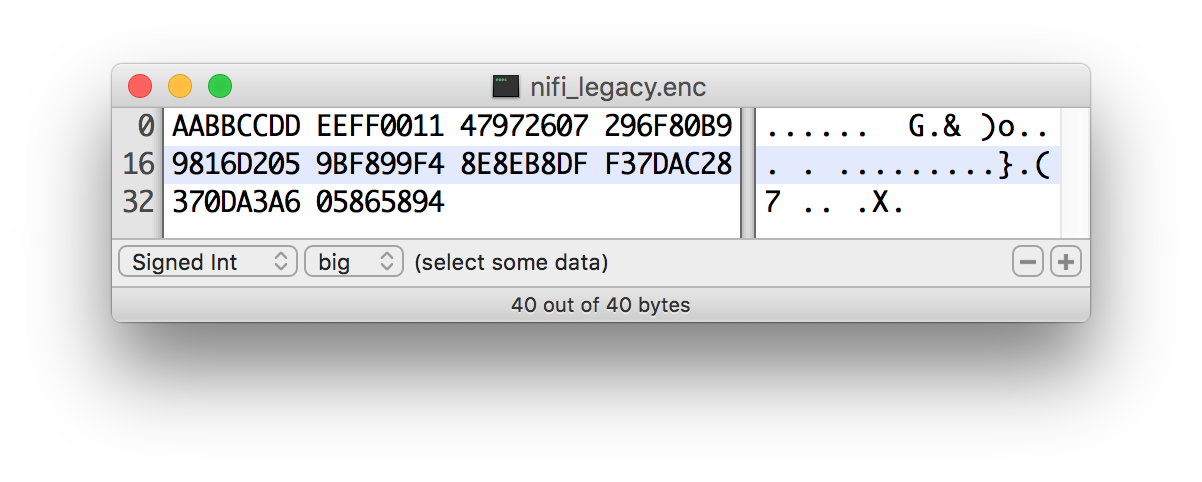
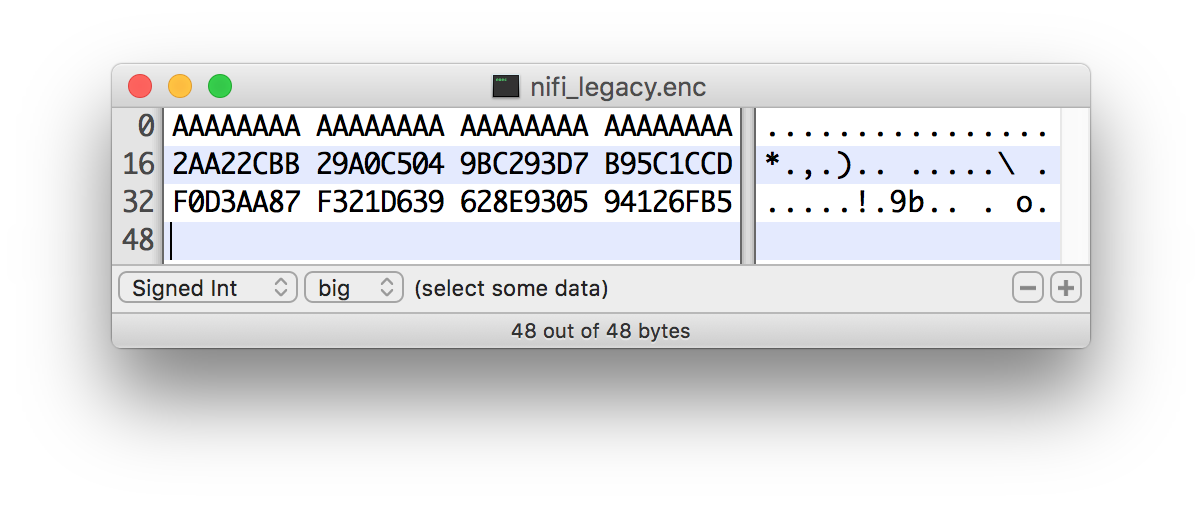
NIFI-1257 Resolved legacy compatibility issue with NiFi legacy KDF salt length dependent on cipher block size.
Replaced screenshot for NiFiLegacy salt encoding.
Added description of legacy salt length determination in admin guide.
Added logic for NiFiLegacyCipherProvider to generate and validate salts of the length determined by the cipher block size.
Changed EncryptContent to default to Bcrypt KDF.

Changed region(s): [[0.0923, 0.1245, 0.9235, 0.6846]]

diff --git a/nifi-nar-bundles/nifi-standard-bundle/nifi-standard-processors/src/main/java/org/apache/nifi/processors/standard/util/crypto/NiFiLegacyCipherProvider.java b/nifi-nar-bundles/nifi-standard-bundle/nifi-standard-processors/src/main/java/org/apache/nifi/processors/standard/util/crypto/NiFiLegacyCipherProvider.java
@@ -26,6 +26,7 @@ import javax.crypto.Cipher;
 import java.io.IOException;
 import java.io.InputStream;
 import java.io.OutputStream;
+import java.security.SecureRandom;
 
 /**
  * Provides a cipher initialized with the original NiFi key derivation process for password-based encryption (MD5 @ 1000 iterations). This is not a secure
@@ -83,17 +84,55 @@ public class NiFiLegacyCipherProvider extends OpenSSLPKCS5CipherProvider impleme
         }
     }
 
+    public byte[] generateSalt(EncryptionMethod encryptionMethod) {
+        byte[] salt = new byte[calculateSaltLength(encryptionMethod)];
+        new SecureRandom().nextBytes(salt);
+        return salt;
+    }
+
+    protected void validateSalt(EncryptionMethod encryptionMethod, byte[] salt) {
+        final int saltLength = calculateSaltLength(encryptionMethod);
+        if (salt.length != saltLength && salt.length != 0) {
+            throw new IllegalArgumentException("Salt must be " + saltLength + " bytes or empty");
+        }
+    }
+
+    private int calculateSaltLength(EncryptionMethod encryptionMethod) {
+        try {
+            Cipher cipher = Cipher.getInstance(encryptionMethod.getAlgorithm(), encryptionMethod.getProvider());
+            return cipher.getBlockSize() > 0 ? cipher.getBlockSize() : getDefaultSaltLength();
+        } catch (Exception e) {
+            logger.warn("Encountered exception determining salt length from encryption method {}", encryptionMethod.getAlgorithm(), e);
+            final int defaultSaltLength = getDefaultSaltLength();
+            logger.warn("Returning default length: {} bytes", defaultSaltLength);
+            return defaultSaltLength;
+        }
+    }
+
     @Override
     public byte[] readSalt(InputStream in) throws IOException, ProcessException {
+        return readSalt(EncryptionMethod.AES_CBC, in);
+    }
+
+    /**
+     * Returns the salt provided as part of the cipher stream, or throws an exception if one cannot be detected.
+     * This method is only implemented by {@link NiFiLegacyCipherProvider} because the legacy salt generation was dependent on the cipher block size.
+     *
+     * @param encryptionMethod the encryption method
+     * @param in the cipher InputStream
+     * @return the salt
+     */
+    public byte[] readSalt(EncryptionMethod encryptionMethod, InputStream in) throws IOException {
         if (in == null) {
             throw new IllegalArgumentException("Cannot read salt from null InputStream");
         }
 
-        // The first 16 bytes of the input stream are the salt
-        if (in.available() < getDefaultSaltLength()) {
+        // The first 8-16 bytes (depending on the cipher blocksize) of the input stream are the salt
+        final int saltLength = calculateSaltLength(encryptionMethod);
+        if (in.available() < saltLength) {
             throw new ProcessException("The cipher stream is too small to contain the salt");
         }
-        byte[] salt = new byte[getDefaultSaltLength()];
+        byte[] salt = new byte[saltLength];
         StreamUtils.fillBuffer(in, salt);
         return salt;
     }

diff --git a/nifi-nar-bundles/nifi-standard-bundle/nifi-standard-processors/src/test/java/org/apache/nifi/processors/standard/TestEncryptContent.java b/nifi-nar-bundles/nifi-standard-bundle/nifi-standard-processors/src/test/java/org/apache/nifi/processors/standard/TestEncryptContent.java
@@ -180,13 +180,13 @@ public class TestEncryptContent {
     }
 
     @Test
-    public void testDecryptShouldDefaultToLegacyKDF() throws IOException {
+    public void testDecryptShouldDefaultToBcrypt() throws IOException {
         // Arrange
         final TestRunner testRunner = TestRunners.newTestRunner(new EncryptContent());
 
         // Assert
         Assert.assertEquals("Decrypt should default to Legacy KDF", testRunner.getProcessor().getPropertyDescriptor(EncryptContent.KEY_DERIVATION_FUNCTION
-                .getName()).getDefaultValue(), KeyDerivationFunction.NIFI_LEGACY.name());
+                .getName()).getDefaultValue(), KeyDerivationFunction.BCRYPT.name());
     }
 
     @Test
@@ -194,6 +194,7 @@ public class TestEncryptContent {
         final TestRunner runner = TestRunners.newTestRunner(EncryptContent.class);
         runner.setProperty(EncryptContent.PASSWORD, "Hello, World!");
         runner.setProperty(EncryptContent.MODE, EncryptContent.DECRYPT_MODE);
+        runner.setProperty(EncryptContent.KEY_DERIVATION_FUNCTION, KeyDerivationFunction.NIFI_LEGACY.name());
         runner.enqueue(new byte[4]);
         runner.run();
         runner.assertAllFlowFilesTransferred(EncryptContent.REL_FAILURE, 1);
@@ -354,6 +355,7 @@ public class TestEncryptContent {
         runner.enqueue(new byte[0]);
         final EncryptionMethod encryptionMethod = EncryptionMethod.MD5_128AES;
         runner.setProperty(EncryptContent.ENCRYPTION_ALGORITHM, encryptionMethod.name());
+        runner.setProperty(EncryptContent.KEY_DERIVATION_FUNCTION, KeyDerivationFunction.NIFI_LEGACY.name());
         runner.setProperty(EncryptContent.PASSWORD, "ThisIsAPasswordThatIsLongerThanSixteenCharacters");
         pc = (MockProcessContext) runner.getProcessContext();
         results = pc.validate();

diff --git a/nifi-nar-bundles/nifi-standard-bundle/nifi-standard-processors/src/main/java/org/apache/nifi/processors/standard/util/crypto/PasswordBasedEncryptor.java b/nifi-nar-bundles/nifi-standard-bundle/nifi-standard-processors/src/main/java/org/apache/nifi/processors/standard/util/crypto/PasswordBasedEncryptor.java
@@ -121,7 +121,12 @@ public class PasswordBasedEncryptor implements Encryptor {
             // Read salt
             byte[] salt;
             try {
-                salt = cipherProvider.readSalt(in);
+                // NiFi legacy code determined the salt length based on the cipher block size
+                if (cipherProvider instanceof NiFiLegacyCipherProvider) {
+                    salt = ((NiFiLegacyCipherProvider) cipherProvider).readSalt(encryptionMethod, in);
+                } else {
+                    salt = cipherProvider.readSalt(in);
+                }
             } catch (final EOFException e) {
                 throw new ProcessException("Cannot decrypt because file size is smaller than salt size", e);
             }
@@ -158,7 +163,13 @@ public class PasswordBasedEncryptor implements Encryptor {
             PBECipherProvider cipherProvider = (PBECipherProvider) CipherProviderFactory.getCipherProvider(kdf);
 
             // Generate salt
-            byte[] salt = cipherProvider.generateSalt();
+            byte[] salt;
+            // NiFi legacy code determined the salt length based on the cipher block size
+            if (cipherProvider instanceof NiFiLegacyCipherProvider) {
+                salt = ((NiFiLegacyCipherProvider) cipherProvider).generateSalt(encryptionMethod);
+            } else {
+                salt = cipherProvider.generateSalt();
+            }
 
             // Write to output stream
             cipherProvider.writeSalt(salt, out);

diff --git a/nifi-nar-bundles/nifi-standard-bundle/nifi-standard-processors/src/main/java/org/apache/nifi/processors/standard/util/crypto/OpenSSLPKCS5CipherProvider.java b/nifi-nar-bundles/nifi-standard-bundle/nifi-standard-processors/src/main/java/org/apache/nifi/processors/standard/util/crypto/OpenSSLPKCS5CipherProvider.java
@@ -129,10 +129,7 @@ public class OpenSSLPKCS5CipherProvider implements PBECipherProvider {
             throw new IllegalArgumentException("Encryption with an empty password is not supported");
         }
 
-        if (salt.length != DEFAULT_SALT_LENGTH && salt.length != 0) {
-            // This does not enforce ASCII encoding, just length
-            throw new IllegalArgumentException("Salt must be 8 bytes US-ASCII encoded or empty");
-        }
+        validateSalt(encryptionMethod, salt);
 
         String algorithm = encryptionMethod.getAlgorithm();
         String provider = encryptionMethod.getProvider();
@@ -146,6 +143,13 @@ public class OpenSSLPKCS5CipherProvider implements PBECipherProvider {
         Cipher cipher = Cipher.getInstance(algorithm, provider);
         cipher.init(encryptMode ? Cipher.ENCRYPT_MODE : Cipher.DECRYPT_MODE, tempKey, parameterSpec);
         return cipher;
+    }
+
+    protected void validateSalt(EncryptionMethod encryptionMethod, byte[] salt) {
+        if (salt.length != DEFAULT_SALT_LENGTH && salt.length != 0) {
+            // This does not enforce ASCII encoding, just length
+            throw new IllegalArgumentException("Salt must be 8 bytes US-ASCII encoded or empty");
+        }
     }
 
     protected int getIterationCount() {

diff --git a/nifi-nar-bundles/nifi-standard-bundle/nifi-standard-processors/src/main/java/org/apache/nifi/processors/standard/util/crypto/CipherUtility.java b/nifi-nar-bundles/nifi-standard-bundle/nifi-standard-processors/src/main/java/org/apache/nifi/processors/standard/util/crypto/CipherUtility.java
@@ -303,7 +303,7 @@ public class CipherUtility {
             throw new IllegalArgumentException("Cannot evaluate an empty encryption method algorithm");
         }
 
-            return passwordLength <= getMaximumPasswordLengthForAlgorithmOnLimitedStrengthCrypto(encryptionMethod);
+        return passwordLength <= getMaximumPasswordLengthForAlgorithmOnLimitedStrengthCrypto(encryptionMethod);
     }
 
     public static int getMaximumPasswordLengthForAlgorithmOnLimitedStrengthCrypto(EncryptionMethod encryptionMethod) {
@@ -316,5 +316,14 @@ public class CipherUtility {
         } else {
             return -1;
         }
+    }
+
+    public static byte[] concatBytes(byte[]... arrays) throws IOException {
+        ByteArrayOutputStream outputStream = new ByteArrayOutputStream();
+        for (byte[] bytes : arrays) {
+            outputStream.write(bytes);
+        }
+
+        return outputStream.toByteArray();
     }
 }

diff --git a/nifi-nar-bundles/nifi-standard-bundle/nifi-standard-processors/src/main/java/org/apache/nifi/processors/standard/EncryptContent.java b/nifi-nar-bundles/nifi-standard-bundle/nifi-standard-processors/src/main/java/org/apache/nifi/processors/standard/EncryptContent.java
@@ -89,7 +89,7 @@ public class EncryptContent extends AbstractProcessor {
             .description("Specifies the key derivation function to generate the key from the password (and salt)")
             .required(true)
             .allowableValues(buildKeyDerivationFunctionAllowableValues())
-            .defaultValue(KeyDerivationFunction.NIFI_LEGACY.name())
+            .defaultValue(KeyDerivationFunction.BCRYPT.name())
             .build();
     public static final PropertyDescriptor ENCRYPTION_ALGORITHM = new PropertyDescriptor.Builder()
             .name("Encryption Algorithm")
